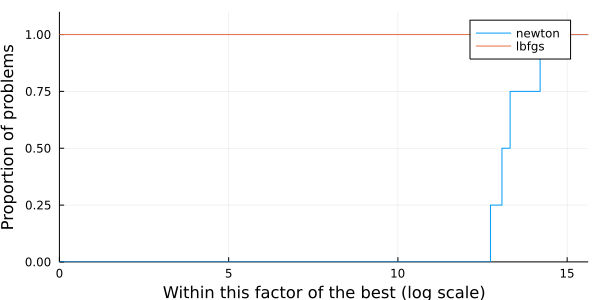
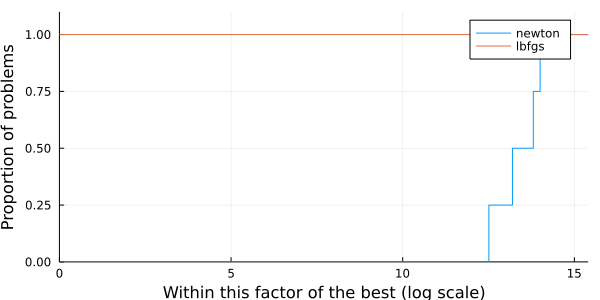
Deploying to gh-pages from  @ 5948771575c008cc515be8cd04a7157543e7946f 🚀

diff --git a/pages/tutorials/creating-a-jso-compliant-solver/index.html b/pages/tutorials/creating-a-jso-compliant-solver/index.html
@@ -244,7 +244,7 @@ print&#40;output&#41;</code></pre><pre><code class="plaintext code-output">Gener
   dual feasibility: 4.018046284781729e-9
   solution: [0.9999999986742657  0.9999999970013461]
   iterations: 18
-  elapsed time: 0.0005509853363037109
+  elapsed time: 0.0005309581756591797
 </code></pre>
 <p>And to compare both solvers, we need a collection of problems. Let&#39;s just create one manually for now.</p>
 <pre><code class=language-julia >problems &#61; &#91;
@@ -262,18 +262,18 @@ stats &#61; bmark_solvers&#40;solvers, problems&#41;</code></pre><pre><code clas
  Row │ id     name     nvar   ncon   nequ   status       objective     elapsed_time  iter   dual_feas  primal_feas  neval_obj  neval_grad  neval_cons  neval_jcon  neval_jgrad  neval_jac  neval_jprod  neval_jtprod  neval_hess  neval_hprod  neval_jhess  neval_jhprod  neval_residual  neval_jac_residual  neval_jprod_residual  neval_jtprod_residual  neval_hess_residual  neval_jhess_residual  neval_hprod_residual  extrainfo
      │ Int64  String   Int64  Int64  Int64  Symbol       Float64       Float64       Int64  Float64    Float64      Int64      Int64       Int64       Int64       Int64        Int64      Int64        Int64         Int64       Int64        Int64        Int64         Int64           Int64               Int64                 Int64                  Int64                Int64                 Int64                 String
 ─────┼────────────────────────────────────────────────────────────────────────────────────────────────────────────────────────────────────────────────────────────────────────────────────────────────────────────────────────────────────────────────────────────────────────────────────────────────────────────────────────────────────────────────────────────────────────────────────────────────────────────────────────────────
-   1 │     1  Generic      2      0      0  first_order   2.46519e-31      0.561267      1        Inf          0.0          3           4           0           0            0          0            0             0           1            0            0             0               0                   0                     0                      0                    0                     0                     0
-   2 │     2  Generic      2      0      0  first_order   3.74398e-21      0.606161     21        Inf          0.0         50          64           0           0            0          0            0             0          21            0            0             0               0                   0                     0                      0                    0                     0                     0
-   3 │     3  Generic      2      0      0  max_iter     -8.36356          0.650878    100        Inf          0.0        201         301           0           0            0          0            0             0         100            0            0             0               0                   0                     0                      0                    0                     0                     0
-   4 │     4  Generic      2      0      0  first_order   1.43195          0.583785      5        Inf          0.0         12          16           0           0            0          0            0             0           5            0            0             0               0                   0                     0                      0                    0                     0                     0
+   1 │     1  Generic      2      0      0  first_order   2.46519e-31      0.563985      1        Inf          0.0          3           4           0           0            0          0            0             0           1            0            0             0               0                   0                     0                      0                    0                     0                     0
+   2 │     2  Generic      2      0      0  first_order   3.74398e-21      0.559033     21        Inf          0.0         50          64           0           0            0          0            0             0          21            0            0             0               0                   0                     0                      0                    0                     0                     0
+   3 │     3  Generic      2      0      0  max_iter     -8.36356          0.559063    100        Inf          0.0        201         301           0           0            0          0            0             0         100            0            0             0               0                   0                     0                      0                    0                     0                     0
+   4 │     4  Generic      2      0      0  first_order   1.43195          0.524263      5        Inf          0.0         12          16           0           0            0          0            0             0           5            0            0             0               0                   0                     0                      0                    0                     0                     0
   :lbfgs => 4×31 DataFrame
  Row │ id     name     nvar   ncon   nequ   status       objective     elapsed_time  iter   dual_feas   primal_feas  neval_obj  neval_grad  neval_cons  neval_jcon  neval_jgrad  neval_jac  neval_jprod  neval_jtprod  neval_hess  neval_hprod  neval_jhess  neval_jhprod  neval_residual  neval_jac_residual  neval_jprod_residual  neval_jtprod_residual  neval_hess_residual  neval_jhess_residual  neval_hprod_residual  extrainfo
      │ Int64  String   Int64  Int64  Int64  Symbol       Float64       Float64       Int64  Float64     Float64      Int64      Int64       Int64       Int64       Int64        Int64      Int64        Int64         Int64       Int64        Int64        Int64         Int64           Int64               Int64                 Int64                  Int64                Int64                 Int64                 String
 ─────┼─────────────────────────────────────────────────────────────────────────────────────────────────────────────────────────────────────────────────────────────────────────────────────────────────────────────────────────────────────────────────────────────────────────────────────────────────────────────────────────────────────────────────────────────────────────────────────────────────────────────────────────────────
-   1 │     1  Generic      2      0      0  first_order   2.26824e-16    6.50883e-5      8  5.28297e-8          0.0         11          10           0           0            0          0            0             0           0            0            0             0               0                   0                     0                      0                    0                     0                     0
-   2 │     2  Generic      2      0      0  first_order   1.44561e-17    8.89301e-5     39  8.41132e-8          0.0         52          45           0           0            0          0            0             0           0            0            0             0               0                   0                     0                      0                    0                     0                     0
-   3 │     3  Generic      2      0      0  first_order  -8.37235        6.38962e-5     12  1.60958e-9          0.0         17          15           0           0            0          0            0             0           0            0            0             0               0                   0                     0                      0                    0                     0                     0
-   4 │     4  Generic      2      0      0  first_order   1.43195        3.09944e-5      9  4.18646e-9          0.0         11          11           0           0            0          0            0             0           0            0            0             0               0                   0                     0                      0                    0                     0                     0</code></pre>
+   1 │     1  Generic      2      0      0  first_order   2.26824e-16    6.00815e-5      8  5.28297e-8          0.0         11          10           0           0            0          0            0             0           0            0            0             0               0                   0                     0                      0                    0                     0                     0
+   2 │     2  Generic      2      0      0  first_order   1.44561e-17    9.58443e-5     39  8.41132e-8          0.0         52          45           0           0            0          0            0             0           0            0            0             0               0                   0                     0                      0                    0                     0                     0
+   3 │     3  Generic      2      0      0  first_order  -8.37235        3.91006e-5     12  1.60958e-9          0.0         17          15           0           0            0          0            0             0           0            0            0             0               0                   0                     0                      0                    0                     0                     0
+   4 │     4  Generic      2      0      0  first_order   1.43195        3.19481e-5      9  4.18646e-9          0.0         11          11           0           0            0          0            0             0           0            0            0             0               0                   0                     0                      0                    0                     0                     0</code></pre>
 <p>The results is a Dictionary of Symbols to DataFrame tables.</p>
 <pre><code class=language-julia >@show typeof&#40;stats&#41;
 @show keys&#40;stats&#41;</code></pre><pre><code class="plaintext code-output">typeof(stats) = Dict{Symbol, DataFrames.DataFrame}
@@ -284,10 +284,10 @@ keys(stats) = [:newton, :lbfgs]
 pretty_stats&#40;stats&#91;:newton&#93;&#91;&#33;, cols&#93;&#41;</code></pre><pre><code class="plaintext code-output">┌─────────┬─────────────┬───────────┬──────────────┬────────┐
 │    name │      status │ objective │ elapsed_time │   iter │
 ├─────────┼─────────────┼───────────┼──────────────┼────────┤
-│ Generic │ first_order │  2.47e-31 │     5.61e-01 │      1 │
-│ Generic │ first_order │  3.74e-21 │     6.06e-01 │     21 │
-│ Generic │    max_iter │ -8.36e+00 │     6.51e-01 │    100 │
-│ Generic │ first_order │  1.43e+00 │     5.84e-01 │      5 │
+│ Generic │ first_order │  2.47e-31 │     5.64e-01 │      1 │
+│ Generic │ first_order │  3.74e-21 │     5.59e-01 │     21 │
+│ Generic │    max_iter │ -8.36e+00 │     5.59e-01 │    100 │
+│ Generic │ first_order │  1.43e+00 │     5.24e-01 │      5 │
 └─────────┴─────────────┴───────────┴──────────────┴────────┘
 </code></pre>
 <p>We can also create a similar table in .tex format, using something like</p>

diff --git a/pages/how-to/create-a-manual-model/index.html b/pages/how-to/create-a-manual-model/index.html
@@ -53,7 +53,7 @@ nlp &#61; NLPModel&#40;
 output &#61; lbfgs&#40;nlp&#41;
 βsol &#61; output.solution
 ŷ &#61; round.&#40;h&#40;βsol, X&#41;&#41;
-sum&#40;ŷ .&#61;&#61; y&#41; / n</code></pre><pre><code class="plaintext code-output">1.0</code></pre>
+sum&#40;ŷ .&#61;&#61; y&#41; / n</code></pre><pre><code class="plaintext code-output">0.998</code></pre>
 <p>We can compare against other approaches.</p>
 <pre><code class=language-julia >using BenchmarkTools
 using Logging
@@ -67,16 +67,16 @@ using Logging
   output &#61; with_logger&#40;NullLogger&#40;&#41;&#41; do
     lbfgs&#40;nlp&#41;
   end
-end</code></pre><pre><code class="plaintext code-output">BenchmarkTools.Trial: 1756 samples with 1 evaluation.
- Range (min … max):  2.064 ms …   8.471 ms  ┊ GC (min … max): 0.00% … 50.70%
- Time  (median):     2.761 ms               ┊ GC (median):    0.00%
- Time  (mean ± σ):   2.838 ms ± 713.775 μs  ┊ GC (mean ± σ):  3.70% ±  9.27%
+end</code></pre><pre><code class="plaintext code-output">BenchmarkTools.Trial: 1419 samples with 1 evaluation.
+ Range (min … max):  2.678 ms …  17.243 ms  ┊ GC (min … max): 0.00% … 0.00%
+ Time  (median):     3.352 ms               ┊ GC (median):    0.00%
+ Time  (mean ± σ):   3.515 ms ± 947.760 μs  ┊ GC (mean ± σ):  4.14% ± 9.99%
 
-    ▃▄▅▅▇▇█▇▆▅▂                                               ▁
-  ▆▇███████████▇▅▅▅▄▆▁▅▄▄▁▁▁▁▁▁▁▁▁▄▁▁▁▁▁▁▁▁▁▁▁▁▁▁▁▅▅▅▁▅▄▅▅▅▆▇ █
-  2.06 ms      Histogram: log(frequency) by time      7.03 ms <
+   ▃▅▇▆▇▇██▇▇▆▄▂                                              ▁
+  ███████████████▇▆▅▆▆▆█▆▆▄▅▁▁▁▁▁▁▁▁▁▁▄▁▁▁▁▁▁▁▁▁▁▄▁▅▅▆▇▆█▆▅█▆ █
+  2.68 ms      Histogram: log(frequency) by time      7.72 ms <
 
- Memory estimate: 1.46 MiB, allocs estimate: 1478.</code></pre>
+ Memory estimate: 1.97 MiB, allocs estimate: 1918.</code></pre>
 <pre><code class=language-julia >using ADNLPModels
 
 @benchmark begin
@@ -84,16 +84,16 @@ end</code></pre><pre><code class="plaintext code-output">BenchmarkTools.Trial: 1
   output &#61; with_logger&#40;NullLogger&#40;&#41;&#41; do
     lbfgs&#40;adnlp&#41;
   end
-end</code></pre><pre><code class="plaintext code-output">BenchmarkTools.Trial: 40 samples with 1 evaluation.
- Range (min … max):  114.165 ms … 138.982 ms  ┊ GC (min … max): 0.00% … 2.19%
- Time  (median):     125.856 ms               ┊ GC (median):    0.00%
- Time  (mean ± σ):   126.871 ms ±   5.531 ms  ┊ GC (mean ± σ):  1.26% ± 1.33%
+end</code></pre><pre><code class="plaintext code-output">BenchmarkTools.Trial: 31 samples with 1 evaluation.
+ Range (min … max):  152.855 ms … 199.060 ms  ┊ GC (min … max): 0.00% … 1.55%
+ Time  (median):     161.408 ms               ┊ GC (median):    1.88%
+ Time  (mean ± σ):   164.044 ms ±   8.928 ms  ┊ GC (mean ± σ):  1.21% ± 0.92%
 
-                      █     █▃▃       █   █                      
-  ▇▁▁▁▁▁▁▁▁▇▁▁▇▇▁▁▇▇▁▇█▇▇▁▇▇███▁▇▇▁▇▁▇█▁▁▇█▁▇▇▁▁▁▁▇▁▁▇▇▇▁▇▁▁▁▁▇ ▁
-  114 ms           Histogram: frequency by time          139 ms <
+       ▁▁▁ █▁▁     ▁▁                                            
+  ▆▆▁▁▆███▁███▆▆▆▁▁██▁▁▁▆▆▆▁▁▁▆▆▁▆▁▁▁▁▁▁▁▁▁▁▁▁▁▁▁▁▁▁▁▁▁▁▁▁▁▁▁▁▆ ▁
+  153 ms           Histogram: frequency by time          199 ms <
 
- Memory estimate: 26.60 MiB, allocs estimate: 3410.</code></pre>
+ Memory estimate: 36.09 MiB, allocs estimate: 4550.</code></pre>
 <pre><code class=language-julia >using JuMP
 using NLPModelsJuMP
 
@@ -116,38 +116,38 @@ using NLPModelsJuMP
   output &#61; with_logger&#40;NullLogger&#40;&#41;&#41; do
     lbfgs&#40;jumpnlp&#41;
   end
-end</code></pre><pre><code class="plaintext code-output">BenchmarkTools.Trial: 38 samples with 1 evaluation.
- Range (min … max):  119.612 ms … 177.216 ms  ┊ GC (min … max):  8.82% … 11.80%
- Time  (median):     129.649 ms               ┊ GC (median):    14.89%
- Time  (mean ± σ):   132.430 ms ±  11.062 ms  ┊ GC (mean ± σ):  13.82% ±  2.74%
+end</code></pre><pre><code class="plaintext code-output">BenchmarkTools.Trial: 39 samples with 1 evaluation.
+ Range (min … max):  117.693 ms … 153.544 ms  ┊ GC (min … max):  8.64% … 12.03%
+ Time  (median):     127.352 ms               ┊ GC (median):    14.52%
+ Time  (mean ± σ):   128.673 ms ±   6.940 ms  ┊ GC (mean ± σ):  13.94% ±  2.73%
 
-  ▂        █   ▅  ▂                                              
-  █▁▁██▅█▅██▅▅██▁▁█▁█▅▁▅▅▁▅▁▁▁▁▁▁▅▁▁▁▁▁▁▁▁▁▁▁▅▁▁▁▁▁▁▁▁▁▁▁▁▁▁▁▁▅ ▁
-  120 ms           Histogram: frequency by time          177 ms <
+          ▁  ▁▁  ▁█  ▄     █    ▁▁                               
+  ▆▆▆▁▆▁▆▆█▁▆██▆▆██▆▆█▁▁▁▆▁█▁▆▆▁██▁▁▁▁▁▁▁▁▁▁▆▁▁▁▁▁▁▁▁▁▁▁▁▁▁▁▁▁▆ ▁
+  118 ms           Histogram: frequency by time          154 ms <
 
  Memory estimate: 151.61 MiB, allocs estimate: 2154736.</code></pre>
 <p>Or just the grad calls:</p>
 <pre><code class=language-julia >using NLPModels
 
 @benchmark grad&#40;nlp, β&#41;</code></pre><pre><code class="plaintext code-output">BenchmarkTools.Trial: 10000 samples with 1 evaluation.
- Range (min … max):  11.601 μs …  5.978 ms  ┊ GC (min … max): 0.00% … 90.65%
- Time  (median):     15.701 μs              ┊ GC (median):    0.00%
- Time  (mean ± σ):   17.752 μs ± 78.727 μs  ┊ GC (mean ± σ):  5.68% ±  1.30%
+ Range (min … max):  11.501 μs …  5.730 ms  ┊ GC (min … max): 0.00% … 91.99%
+ Time  (median):     15.902 μs              ┊ GC (median):    0.00%
+ Time  (mean ± σ):   17.853 μs ± 78.995 μs  ┊ GC (mean ± σ):  5.95% ±  1.36%
 
-        ▆▆▅█▃▅▃▅ ▁                                             
-  ▁▁▃▄▇▇██████████▆▅▇▆▇▄▄▃▃▃▂▂▂▂▂▂▂▂▁▁▁▁▁▁▁▁▁▁▁▁▁▁▁▁▁▁▁▁▁▁▁▁▁ ▃
-  11.6 μs         Histogram: frequency by time        31.9 μs <
+         ▃▁▂▃▇▆▆█▁▁ ▁                                          
+  ▁▁▂▃▄▅▇██████████▇█▅▅▅▅▃▃▃▃▃▂▂▂▂▂▂▂▁▁▁▁▁▁▁▁▁▁▁▁▁▁▁▁▁▁▁▁▁▁▁▁ ▃
+  11.5 μs         Histogram: frequency by time        30.8 μs <
 
  Memory estimate: 18.19 KiB, allocs estimate: 8.</code></pre>
 <pre><code class=language-julia >adnlp &#61; ADNLPModel&#40;β -&gt; myfun&#40;β, X, y&#41;, zeros&#40;p &#43; 1&#41;&#41;
-@benchmark grad&#40;adnlp, β&#41;</code></pre><pre><code class="plaintext code-output">BenchmarkTools.Trial: 2499 samples with 1 evaluation.
- Range (min … max):  1.519 ms …   6.698 ms  ┊ GC (min … max): 0.00% … 63.68%
- Time  (median):     2.003 ms               ┊ GC (median):    0.00%
- Time  (mean ± σ):   1.995 ms ± 408.600 μs  ┊ GC (mean ± σ):  1.49% ±  5.61%
+@benchmark grad&#40;adnlp, β&#41;</code></pre><pre><code class="plaintext code-output">BenchmarkTools.Trial: 2592 samples with 1 evaluation.
+ Range (min … max):  1.517 ms …   6.654 ms  ┊ GC (min … max): 0.00% … 66.47%
+ Time  (median):     1.901 ms               ┊ GC (median):    0.00%
+ Time  (mean ± σ):   1.924 ms ± 409.864 μs  ┊ GC (mean ± σ):  1.63% ±  5.80%
 
-                           ▂▁▁▂▁▂▄▆▆▃▄▃▄▄▇▃▅█▂                 
-  ▆▄▃▃▃▃▅▄▅▅▅▆▆▅▆▇█▆▇▆▇███▇███████████████████▄▃▂▂▁▁▂▂▁▁▁▁▁▂▂ ▄
-  1.52 ms         Histogram: frequency by time        2.44 ms <
+                     ██            ▂     ▂▂                    
+  ▄▃▃▂▂▂▃▃▄▂▄▃▄▄▄▄▅▅▆██▇▆▅▆▅▇▇▆▇▇▇▇█▇▇▇▇████▆▆▅▆▆▅▅▄▃▃▂▃▂▂▁▁▁ ▃
+  1.52 ms         Histogram: frequency by time        2.26 ms <
 
  Memory estimate: 478.12 KiB, allocs estimate: 43.</code></pre>
 <pre><code class=language-julia >model &#61; Model&#40;&#41;
@@ -166,13 +166,13 @@ end</code></pre><pre><code class="plaintext code-output">BenchmarkTools.Trial: 3
 &#41;
 jumpnlp &#61; MathOptNLPModel&#40;model&#41;
 @benchmark grad&#40;jumpnlp, β&#41;</code></pre><pre><code class="plaintext code-output">BenchmarkTools.Trial: 10000 samples with 1 evaluation.
- Range (min … max):  221.219 μs … 633.255 μs  ┊ GC (min … max): 0.00% … 0.00%
- Time  (median):     257.023 μs               ┊ GC (median):    0.00%
- Time  (mean ± σ):   255.549 μs ±  19.124 μs  ┊ GC (mean ± σ):  0.00% ± 0.00%
+ Range (min … max):  215.821 μs … 664.164 μs  ┊ GC (min … max): 0.00% … 0.00%
+ Time  (median):     247.424 μs               ┊ GC (median):    0.00%
+ Time  (mean ± σ):   248.060 μs ±  17.456 μs  ┊ GC (mean ± σ):  0.00% ± 0.00%
 
-     ▇▇▄       ▁▇▅▄▂▁      ▂▆▄▆▅▃▂ ▄█▅▃▂▁▂▁                      
-  ▂▂▇████▄▄▄▄▄▃██████▇▇▇▇▅▆████████████████▇▆▅▄▅▅▄▄▄▃▃▂▃▂▂▂▂▂▂▂ ▅
-  221 μs           Histogram: frequency by time          301 μs <
+                  █▁             ▁                               
+  ▂▂▁▅▄▁▁▁▁▁▁▂▃▂▂▄██▂▁▂▂▃▂▂▃▂▃▂▂▅█▄▂▂▂▂▂▂▃▅▄▂▂▂▂▂▂▂▂▁▁▂▂▁▁▁▁▁▁▁ ▂
+  216 μs           Histogram: frequency by time          290 μs <
 
  Memory estimate: 496 bytes, allocs estimate: 1.</code></pre>
 <p>Take these benchmarks with a grain of salt. They are being run on a github actions server with global variables. If you want to make an informed option, you should consider performing your own benchmarks.</p>

diff --git a/pages/tutorials/introduction-to-linear-operators/index.html b/pages/tutorials/introduction-to-linear-operators/index.html
@@ -6,16 +6,16 @@ op2 &#61; LinearOperator&#40;A2&#41;
 op &#61; op1 * op2  # Does not form A1 * A2
 x &#61; rand&#40;3&#41;
 y &#61; op * x</code></pre><pre><code class="plaintext code-output">5-element Vector{Float64}:
- 0.15356401951475523
- 0.669747219762737
- 0.6729908033132412
- 0.9709911545079073
- 0.7771111808969634</code></pre> <h2 id=inverse ><a href="#inverse" class=header-anchor >Inverse</a></h2> <p>Operators may be defined to represent &#40;approximate&#41; inverses.</p> <pre><code class=language-julia >using LinearAlgebra
+ 1.2900508618017688
+ 0.8884184661540453
+ 0.9933479210926095
+ 0.7815499987004856
+ 1.2318479497860333</code></pre> <h2 id=inverse ><a href="#inverse" class=header-anchor >Inverse</a></h2> <p>Operators may be defined to represent &#40;approximate&#41; inverses.</p> <pre><code class=language-julia >using LinearAlgebra
 A &#61; rand&#40;5,5&#41;
 A &#61; A&#39; * A
 op &#61; opCholesky&#40;A&#41;  # Use, e.g., as a preconditioner
 v &#61; rand&#40;5&#41;
-norm&#40;A \ v - op * v&#41; / norm&#40;v&#41;</code></pre><pre><code class="plaintext code-output">2.1368705471691216e-11</code></pre>
+norm&#40;A \ v - op * v&#41; / norm&#40;v&#41;</code></pre><pre><code class="plaintext code-output">1.5681120935466344e-12</code></pre>
 <p>In this example, the Cholesky factor is computed only once and can be used many times transparently.</p>
 <h2 id=mul ><a href="#mul" class=header-anchor >mul&#33;</a></h2>
 <p>It is often useful to reuse the memory used by the operator. For that reason, we can use <code>mul&#33;</code> on operators as if we were using matrices using preallocated vectors:</p>
@@ -58,18 +58,18 @@ dft &#61; LinearOperator&#40;ComplexF64, 10, 10, false, false,
                      mulifft&#33;&#41;
 x &#61; rand&#40;10&#41;
 y &#61; dft * x
-norm&#40;dft&#39; * y - x&#41;  # DFT is a unitary operator</code></pre><pre><code class="plaintext code-output">3.188872858294072e-16</code></pre>
+norm&#40;dft&#39; * y - x&#41;  # DFT is a unitary operator</code></pre><pre><code class="plaintext code-output">5.502328482176191e-16</code></pre>
 <pre><code class=language-julia >transpose&#40;dft&#41; * y</code></pre><pre><code class="plaintext code-output">10-element Vector{ComplexF64}:
- 0.6649163950630461 - 0.0im
- 0.8500157388367809 - 0.0im
- 0.2821646881287592 - 0.0im
-  0.956001623803156 - 0.0im
- 0.8189401571601551 - 0.0im
- 0.5989672474487281 - 0.0im
- 0.3620995372953153 - 0.0im
- 0.9360028591961096 - 0.0im
- 0.4192524177265211 - 0.0im
- 0.2086339193919179 - 0.0im</code></pre>
+  0.7541046444323153 - 0.0im
+   0.282900266843264 - 0.0im
+  0.8657647523608395 - 0.0im
+  0.8878875635465143 - 0.0im
+  0.9197500595068768 - 0.0im
+  0.9396367421204131 - 0.0im
+ 0.31320080648769094 - 0.0im
+ 0.30504628636775166 - 0.0im
+ 0.14876507121342383 - 0.0im
+ 0.35825554946039884 - 0.0im</code></pre>
 <p>Another example:</p>
 <pre><code class=language-julia >function customfunc&#33;&#40;res, v, α, β::T&#41; where T
   if β &#61;&#61; zero&#40;T&#41;
@@ -127,7 +127,7 @@ for i &#61; 1:100
   push&#33;&#40;H, s, y&#41;
   r &#43;&#61; norm&#40;B * H * s - s&#41;
 end
-r</code></pre><pre><code class="plaintext code-output">4.0850976361879617e-13</code></pre>
+r</code></pre><pre><code class="plaintext code-output">3.642644748440857e-13</code></pre>
 <p>There is also a LSR1 operator that behaves similarly to these two.</p>
 <h2 id=restriction_extension_and_slices ><a href="#restriction_extension_and_slices" class=header-anchor >Restriction, extension and slices</a></h2>
 <p>The restriction operator restricts a vector to a set of indices.</p>
@@ -155,24 +155,24 @@ opA &#61; LinearOperator&#40;A&#41;
 I &#61; &#91;1;3;5&#93;
 J &#61; 2:4
 A&#91;I,J&#93; * ones&#40;3&#41;</code></pre><pre><code class="plaintext code-output">3-element Vector{Float64}:
- 0.8246214663157774
- 1.3170126915205436
- 1.9949794579319928</code></pre>
+ 0.9881701864800341
+ 1.725854949316004
+ 2.384112728383326</code></pre>
 <pre><code class=language-julia >opRestriction&#40;I, 5&#41; * opA * opExtension&#40;J, 5&#41; * ones&#40;3&#41;</code></pre><pre><code class="plaintext code-output">3-element Vector{Float64}:
- 0.8246214663157774
- 1.3170126915205436
- 1.9949794579319928</code></pre>
+ 0.9881701864800341
+ 1.725854949316004
+ 2.384112728383326</code></pre>
 <p>A main difference with matrices, is that slices <strong>do not</strong> return vectors nor numbers.</p>
 <pre><code class=language-julia >opA&#91;1,:&#93; * ones&#40;5&#41;</code></pre><pre><code class="plaintext code-output">1-element Vector{Float64}:
- 1.8806022927140418</code></pre>
+ 1.7392090512403984</code></pre>
 <pre><code class=language-julia >opA&#91;:,1&#93; * ones&#40;1&#41;</code></pre><pre><code class="plaintext code-output">5-element Vector{Float64}:
- 0.3683697563796058
- 0.16389704948229356
- 0.4349070529090435
- 0.9998773626170285
- 0.8795848857012218</code></pre>
+ 0.5382371666414996
+ 0.000651525355779059
+ 0.7233780472408853
+ 0.21791279710016753
+ 0.5107548428285831</code></pre>
 <pre><code class=language-julia >opA&#91;1,1&#93; * ones&#40;1&#41;</code></pre><pre><code class="plaintext code-output">1-element Vector{Float64}:
- 0.3683697563796058</code></pre>
+ 0.5382371666414996</code></pre>
 
 <div class=page-foot >
   <div class=copyright >

diff --git a/pages/how-to/solve-an-optimization-problem-with-ipopt/index.html b/pages/how-to/solve-an-optimization-problem-with-ipopt/index.html
@@ -79,8 +79,8 @@ Number of inequality constraint evaluations          = 8
 Number of equality constraint Jacobian evaluations   = 0
 Number of inequality constraint Jacobian evaluations = 8
 Number of Lagrangian Hessian evaluations             = 7
-Total CPU secs in IPOPT (w/o function evaluations)   =      3.342
-Total CPU secs in NLP function evaluations           =      1.360
+Total CPU secs in IPOPT (w/o function evaluations)   =      3.113
+Total CPU secs in NLP function evaluations           =      1.327
 
 EXIT: Optimal Solution Found.
 "Execution stats: first-order stationary"</code></pre> <p>To remove the output, use print_level</p> <pre><code class=language-julia >output &#61; ipopt&#40;nlp, print_level&#61;0&#41;</code></pre><pre><code class="plaintext code-output">"Execution stats: first-order stationary"</code></pre>
@@ -97,7 +97,7 @@ EXIT: Optimal Solution Found.
   iterations: 7
   elapsed time: 0.004
   solver specific:
-    real_time: 0.005076885223388672
+    real_time: 0.0049288272857666016
     internal_msg: :Solve_Succeeded
 </code></pre>
 <pre><code class=language-julia >x &#61; output.solution
